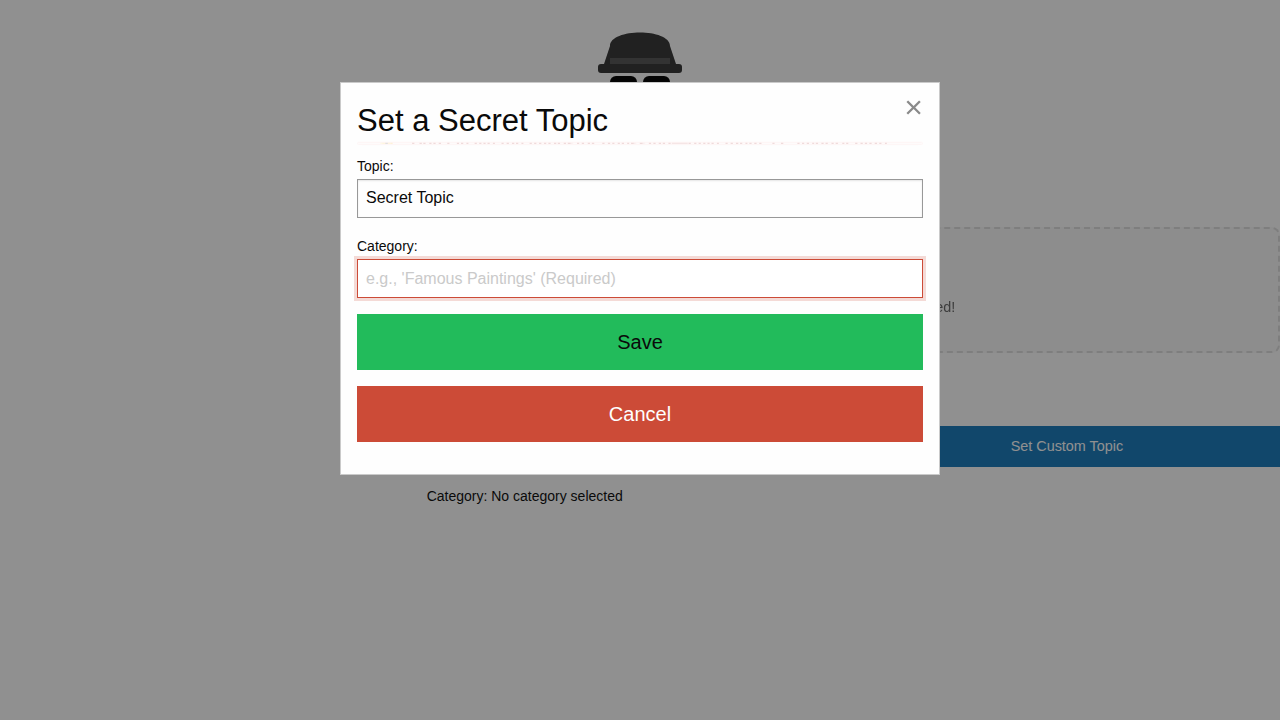
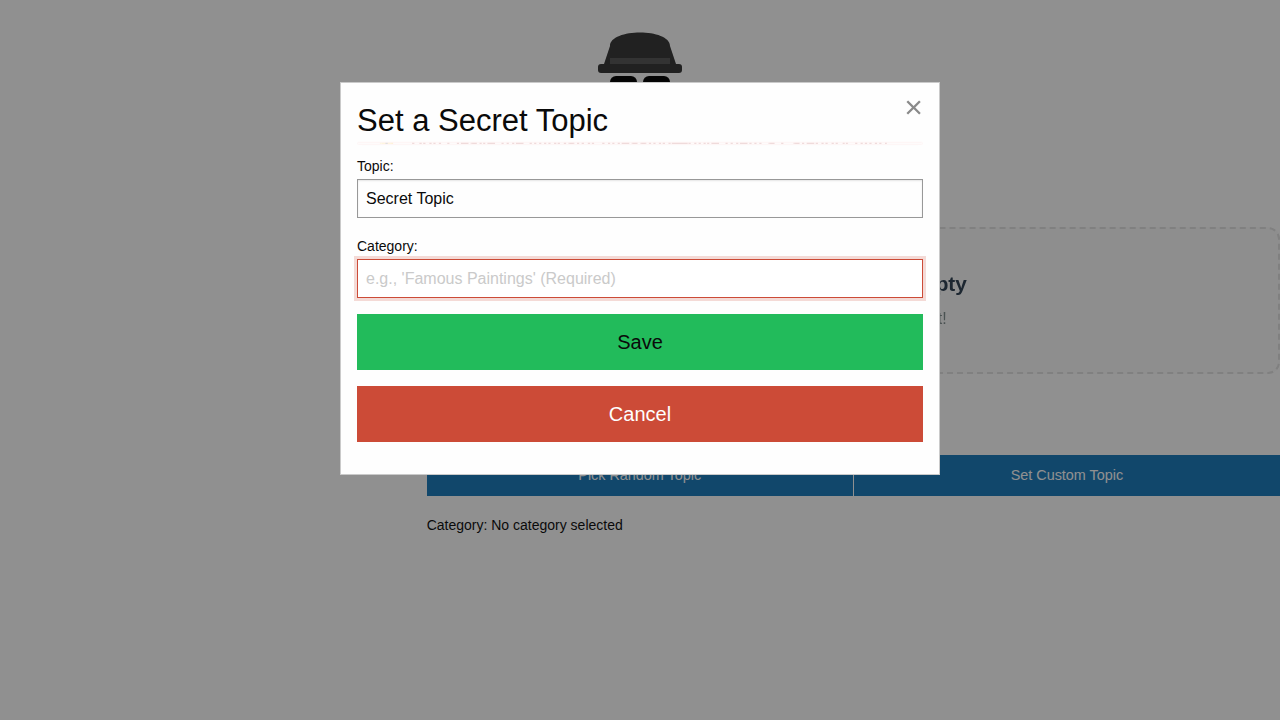
Refactor: split monolithic main.js into event sub-modules and apply CSS transitions
- Extract event handlers from `main.js` into `events/topic.js`, `events/modals.js`, `events/game.js`, and `events/players.js`.
- Replace abrupt jQuery `.show()` and `.hide()` with `.fade-enter` and `.fade-leave` CSS transitions in `setup.js`, `distribute.js`, and `modals.js`.
- Add `will-change: transform, opacity, height` to `.form-error-message` in `style.css` to prevent layout thrashing.
- Add timeout checks to prevent race conditions during CSS transition hide.
- Record process and learnings in `.jules/sculptor.md`.

Changed region(s): [[0.3125, 0.5806, 1.0, 0.7333], [0.2812, 0.2444, 0.3438, 0.3056], [0.7188, 0.3972, 0.75, 0.4278]]

diff --git a/js/main.js b/js/main.js
@@ -8,129 +8,6 @@ $(document).ready(function () {
     // Initialize State
     GameApp.State.init();
 
-    // Event Listeners
-    $('#addPlayerButton').on('click', function() {
-        GameApp.UI.addPlayer({ focus: true, animate: true });
-    });
-
-    $('#setTopicButton').on('click', function () {
-        //clear the dialog and error state
-        $('#topicInputModal #topicInput').val("").removeClass('is-invalid-input');
-        $('#topicInputModal #categoryInput').val("").removeClass('is-invalid-input');
-        $('#topicErrorMsg').hide();
-    });
-
-    $('#randomTopicButton').on('click', function () {
-        var topicInfo = GameApp.Logic.setRandomTopic();
-        GameApp.State.currentTopicInfo = topicInfo;
-        GameApp.UI.updateCategoryDisplay();
-    });
-
-    $('#saveAndExitTopicInputModalButton').on('click', function () {
-        var $topicInput = $('#topicInputModal #topicInput');
-        var $categoryInput = $('#topicInputModal #categoryInput');
-        var $errorMsg = $('#topicErrorMsg');
-
-        var info = {
-            topic: $topicInput.val().trim(),
-            category: $categoryInput.val().trim()
-        };
-
-        // Reset error states
-        $topicInput.removeClass('is-invalid-input').removeAttr('aria-invalid');
-        $categoryInput.removeClass('is-invalid-input').removeAttr('aria-invalid');
-        $errorMsg.hide().empty();
-
-        var errors = [];
-        var firstErrorInput = null;
-
-        if (!info.topic || info.topic.length < 2) {
-            $topicInput.addClass('is-invalid-input').attr('aria-invalid', 'true');
-            errors.push("topic");
-            if (!firstErrorInput) firstErrorInput = $topicInput;
-        }
-        if (!info.category || info.category.length < 2) {
-            $categoryInput.addClass('is-invalid-input').attr('aria-invalid', 'true');
-            errors.push("category");
-            if (!firstErrorInput) firstErrorInput = $categoryInput;
-        }
-
-        if (errors.length > 0) {
-            var msg = "";
-            if (errors.includes("topic") && errors.includes("category")) {
-                msg = "Let's get started! Please add a Secret Topic and a Category hint.";
-            } else if (errors.includes("topic")) {
-                msg = "We need a Secret Topic to start the round. Can you add one?";
-            } else {
-                msg = "Don't leave the Impostor guessing—give them a Category hint!";
-            }
-
-            $errorMsg.text(msg).slideDown();
-            if (firstErrorInput) {
-                firstErrorInput.focus();
-            }
-            return false;
-        } else {
-            GameApp.State.currentTopicInfo = info;
-            // Explicitly call the update method from the facade
-            if (GameApp.UI.Screens && GameApp.UI.Screens.updateCategoryDisplay) {
-                GameApp.UI.Screens.updateCategoryDisplay();
-            } else if (GameApp.UI.updateCategoryDisplay) {
-                GameApp.UI.updateCategoryDisplay();
-            }
-            $('#topicInputModal').foundation('close');
-        }
-    });
-
-    // Clear error state on input
-    $('#topicInputModal input').on('input', function() {
-        $(this).removeClass('is-invalid-input');
-        // If both inputs are now valid (or at least being edited), hide the main error message
-        // A simple approach is to hide it as soon as user interacts, assuming they are fixing it.
-        $('#topicErrorMsg').slideUp();
-    });
-
-    $('#editGameButton').on('click', function() {
-        GameApp.UI.changeScreenTo('#screenSetPlayers');
-    });
-
-    $('#distributeTopicButton').on('click', GameApp.UI.buildScreen2);
-
-    $('#endAndRevealButton').on('click', GameApp.UI.revealImpostor);
-
-    // Handle Role Reveal Modal Close
-    $('#showRoleModal').on('closed.zf.reveal', function() {
-        if (GameApp.UI.Modals && GameApp.UI.Modals.handleRoleModalClose) {
-            GameApp.UI.Modals.handleRoleModalClose();
-        } else if (GameApp.UI.handleRoleModalClose) {
-            // Fallback to facade if needed
-            GameApp.UI.handleRoleModalClose();
-        }
-    });
-
-    $('#exitRevealModalButton').on('click', function () {
-        GameApp.UI.buildScreen1();
-    });
-
-    $('#startButton').on('click', GameApp.UI.buildScreen3);
-
-    // Event Delegation for dynamic elements
-    $(document).on('click', '.deletePlayer', function() {
-        GameApp.UI.deletePlayer(this);
-    });
-
-    var debouncedUpdate = _.debounce(function() {
-        GameApp.UI.updatePlayerListInState();
-    }, 300);
-
-    $(document).on('input', '.playerNameInput', debouncedUpdate);
-
-    // Ensure state is saved immediately on blur/change to prevent data loss if user leaves quickly
-    $(document).on('change', '.playerNameInput', function() {
-        GameApp.UI.updatePlayerListInState();
-        debouncedUpdate.cancel(); // Cancel pending debounce since we just saved
-    });
-
     // Start App
     GameApp.UI.buildScreen1();
 });

diff --git a/js/modules/ui/events/topic.js b/js/modules/ui/events/topic.js
@@ -1,0 +1,82 @@
+/*global $, GameApp */
+$(document).ready(function () {
+    "use strict";
+
+    $('#setTopicButton').on('click', function () {
+        //clear the dialog and error state
+        $('#topicInputModal #topicInput').val("").removeClass('is-invalid-input');
+        $('#topicInputModal #categoryInput').val("").removeClass('is-invalid-input');
+        $('#topicErrorMsg').hide();
+    });
+
+    $('#randomTopicButton').on('click', function () {
+        var topicInfo = GameApp.Logic.setRandomTopic();
+        GameApp.State.currentTopicInfo = topicInfo;
+        GameApp.UI.updateCategoryDisplay();
+    });
+
+    $('#saveAndExitTopicInputModalButton').on('click', function () {
+        var $topicInput = $('#topicInputModal #topicInput');
+        var $categoryInput = $('#topicInputModal #categoryInput');
+        var $errorMsg = $('#topicErrorMsg');
+
+        var info = {
+            topic: $topicInput.val().trim(),
+            category: $categoryInput.val().trim()
+        };
+
+        // Reset error states
+        $topicInput.removeClass('is-invalid-input').removeAttr('aria-invalid');
+        $categoryInput.removeClass('is-invalid-input').removeAttr('aria-invalid');
+        $errorMsg.hide().empty();
+
+        var errors = [];
+        var firstErrorInput = null;
+
+        if (!info.topic || info.topic.length < 2) {
+            $topicInput.addClass('is-invalid-input').attr('aria-invalid', 'true');
+            errors.push("topic");
+            if (!firstErrorInput) firstErrorInput = $topicInput;
+        }
+        if (!info.category || info.category.length < 2) {
+            $categoryInput.addClass('is-invalid-input').attr('aria-invalid', 'true');
+            errors.push("category");
+            if (!firstErrorInput) firstErrorInput = $categoryInput;
+        }
+
+        if (errors.length > 0) {
+            var msg = "";
+            if (errors.includes("topic") && errors.includes("category")) {
+                msg = "Let's get started! Please add a Secret Topic and a Category hint.";
+            } else if (errors.includes("topic")) {
+                msg = "We need a Secret Topic to start the round. Can you add one?";
+            } else {
+                msg = "Don't leave the Impostor guessing—give them a Category hint!";
+            }
+
+            $errorMsg.text(msg).slideDown();
+            if (firstErrorInput) {
+                firstErrorInput.focus();
+            }
+            return false;
+        } else {
+            GameApp.State.currentTopicInfo = info;
+            // Explicitly call the update method from the facade
+            if (GameApp.UI.Screens && GameApp.UI.Screens.updateCategoryDisplay) {
+                GameApp.UI.Screens.updateCategoryDisplay();
+            } else if (GameApp.UI.updateCategoryDisplay) {
+                GameApp.UI.updateCategoryDisplay();
+            }
+            $('#topicInputModal').foundation('close');
+        }
+    });
+
+    // Clear error state on input
+    $('#topicInputModal input').on('input', function() {
+        $(this).removeClass('is-invalid-input');
+        // If both inputs are now valid (or at least being edited), hide the main error message
+        // A simple approach is to hide it as soon as user interacts, assuming they are fixing it.
+        $('#topicErrorMsg').slideUp();
+    });
+
+});

diff --git a/js/modules/ui/screens/setup.js b/js/modules/ui/screens/setup.js
@@ -21,10 +21,20 @@ window.GameApp.UI.Screens.Setup = (function () {
         // However, let's be safe and use .playerListItem class if available.
         var num = $('#playerList .playerListItem').length;
 
+        var $distBtn = $('#distributeTopicButton');
         if (num > 2 && info && info.topic && info.category) {
-            $('#distributeTopicButton').show();
+            if ($distBtn.is(':hidden') || $distBtn.hasClass('fade-leave')) {
+                $distBtn.show().removeClass('fade-leave').addClass('fade-enter');
+            }
         } else {
-            $('#distributeTopicButton').hide();
+            if ($distBtn.is(':visible') || $distBtn.hasClass('fade-enter')) {
+                $distBtn.removeClass('fade-enter').addClass('fade-leave');
+                setTimeout(function() {
+                     if ($distBtn.hasClass('fade-leave')) {
+                         $distBtn.hide();
+                     }
+                }, 300);
+            }
         }
 
         // Handle Empty State Visibility
@@ -63,7 +73,7 @@ window.GameApp.UI.Screens.Setup = (function () {
 
         $('#playerList').append(fragment);
 
-        $('#distributeTopicButton').hide();
+        $('#distributeTopicButton').hide().removeClass('fade-enter').removeClass('fade-leave');
         GameApp.State.gInfos = [];
         GameApp.State.currentTopicInfo = null;
         updateCategoryDisplay();

diff --git a/js/modules/ui/events/players.js b/js/modules/ui/events/players.js
@@ -1,0 +1,26 @@
+/*global $, _, GameApp */
+$(document).ready(function () {
+    "use strict";
+
+    $('#addPlayerButton').on('click', function() {
+        GameApp.UI.addPlayer({ focus: true, animate: true });
+    });
+
+    // Event Delegation for dynamic elements
+    $(document).on('click', '.deletePlayer', function() {
+        GameApp.UI.deletePlayer(this);
+    });
+
+    var debouncedUpdate = _.debounce(function() {
+        GameApp.UI.updatePlayerListInState();
+    }, 300);
+
+    $(document).on('input', '.playerNameInput', debouncedUpdate);
+
+    // Ensure state is saved immediately on blur/change to prevent data loss if user leaves quickly
+    $(document).on('change', '.playerNameInput', function() {
+        GameApp.UI.updatePlayerListInState();
+        debouncedUpdate.cancel(); // Cancel pending debounce since we just saved
+    });
+
+});

diff --git a/js/modules/ui/modals.js b/js/modules/ui/modals.js
@@ -51,7 +51,11 @@ window.GameApp.UI.Modals = (function () {
             var remainingPlayerCount = $('#playerListForShowTopic li').length;
 
             if (remainingPlayerCount < 1) {
-                $('#startButton').show().focus();
+                var $startBtn = $('#startButton');
+                if ($startBtn.is(':hidden') || $startBtn.hasClass('fade-leave')) {
+                    $startBtn.show().removeClass('fade-leave').addClass('fade-enter');
+                }
+                $startBtn.focus();
             } else if ($nextButton.length) {
                 $nextButton.focus();
             } else {

diff --git a/js/modules/ui/events/modals.js b/js/modules/ui/events/modals.js
@@ -1,0 +1,19 @@
+/*global $, GameApp */
+$(document).ready(function () {
+    "use strict";
+
+    // Handle Role Reveal Modal Close
+    $('#showRoleModal').on('closed.zf.reveal', function() {
+        if (GameApp.UI.Modals && GameApp.UI.Modals.handleRoleModalClose) {
+            GameApp.UI.Modals.handleRoleModalClose();
+        } else if (GameApp.UI.handleRoleModalClose) {
+            // Fallback to facade if needed
+            GameApp.UI.handleRoleModalClose();
+        }
+    });
+
+    $('#exitRevealModalButton').on('click', function () {
+        GameApp.UI.buildScreen1();
+    });
+
+});

diff --git a/index.html b/index.html
@@ -23,6 +23,10 @@
   <script type="text/javascript" src="js/modules/ui/modals.js"></script>
   <script type="text/javascript" src="js/modules/ui.js"></script>
   <script type="text/javascript" src="js/main.js"></script>
+  <script type="text/javascript" src="js/modules/ui/events/topic.js"></script>
+  <script type="text/javascript" src="js/modules/ui/events/modals.js"></script>
+  <script type="text/javascript" src="js/modules/ui/events/game.js"></script>
+  <script type="text/javascript" src="js/modules/ui/events/players.js"></script>
 
 </head>
 <body>

diff --git a/js/modules/ui/events/game.js b/js/modules/ui/events/game.js
@@ -1,0 +1,15 @@
+/*global $, GameApp */
+$(document).ready(function () {
+    "use strict";
+
+    $('#editGameButton').on('click', function() {
+        GameApp.UI.changeScreenTo('#screenSetPlayers');
+    });
+
+    $('#distributeTopicButton').on('click', GameApp.UI.buildScreen2);
+
+    $('#endAndRevealButton').on('click', GameApp.UI.revealImpostor);
+
+    $('#startButton').on('click', GameApp.UI.buildScreen3);
+
+});

diff --git a/js/modules/ui/screens/distribute.js b/js/modules/ui/screens/distribute.js
@@ -26,7 +26,7 @@ window.GameApp.UI.Screens.Distribute = (function () {
 
         //remove existing elems of show-list
         $('#playerListForShowTopic li').remove();
-        $('#startButton').hide();
+        $('#startButton').hide().removeClass('fade-enter').removeClass('fade-leave');
 
         // Distribute roles
         var gInfos = GameApp.Logic.distributeRoles(playerNames, currentTopicInfo);

diff --git a/css/style.css b/css/style.css
@@ -238,6 +238,7 @@
     gap: 0.75rem;
     box-shadow: 0 2px 4px rgba(0,0,0,0.05);
     animation: slide-in-down 0.3s ease-out;
+    will-change: transform, opacity, height;
 }
 
 .form-error-message::before {

diff --git a/.jules/sculptor.md b/.jules/sculptor.md
@@ -3,3 +3,7 @@
 ## 2024-05-24 - [Split & Polished: UI Module]
 **Learning:** `js/modules/ui.js` was identified as a "God Component". It handled screen transitions, player list management, modal interactions, and specific screen building logic all in one file. This made it difficult to reason about specific UI flows and transitions.
 **Action:** Splitting `js/modules/ui.js` into focused sub-modules: `transitions.js`, `players.js`, `screens.js`, and `modals.js`. This separation of concerns allows for cleaner transitions and easier maintenance. The `js/modules/ui.js` file will act as a facade to maintain backward compatibility.
+
+## 2024-05-24 - [Split & Polished: main.js God Component]
+**Learning:** `js/main.js` acted as a "God Component", handling every UI event listener in a single >100 line block. Extracting this into specific event modules (`topic.js`, `modals.js`, `game.js`, `players.js`) separated concerns successfully. When components swap (e.g. `distributeTopicButton` appearing when valid, or `startButton` appearing after all roles are revealed), using jQuery `.show()` and `.hide()` causes abrupt UI jumps.
+**Action:** Replaced abrupt visibility toggles with `.addClass('fade-enter')` and `.removeClass('fade-enter').addClass('fade-leave')` coupled with `setTimeout` to wait for CSS transitions to finish before setting `display: none`. This provides a polished fade-in/out effect when these UI elements enter or leave the document flow. Added `will-change: transform, opacity, height;` to `.form-error-message` to prevent layout thrashing during `.slideDown()` and `.slideUp()` animations.
